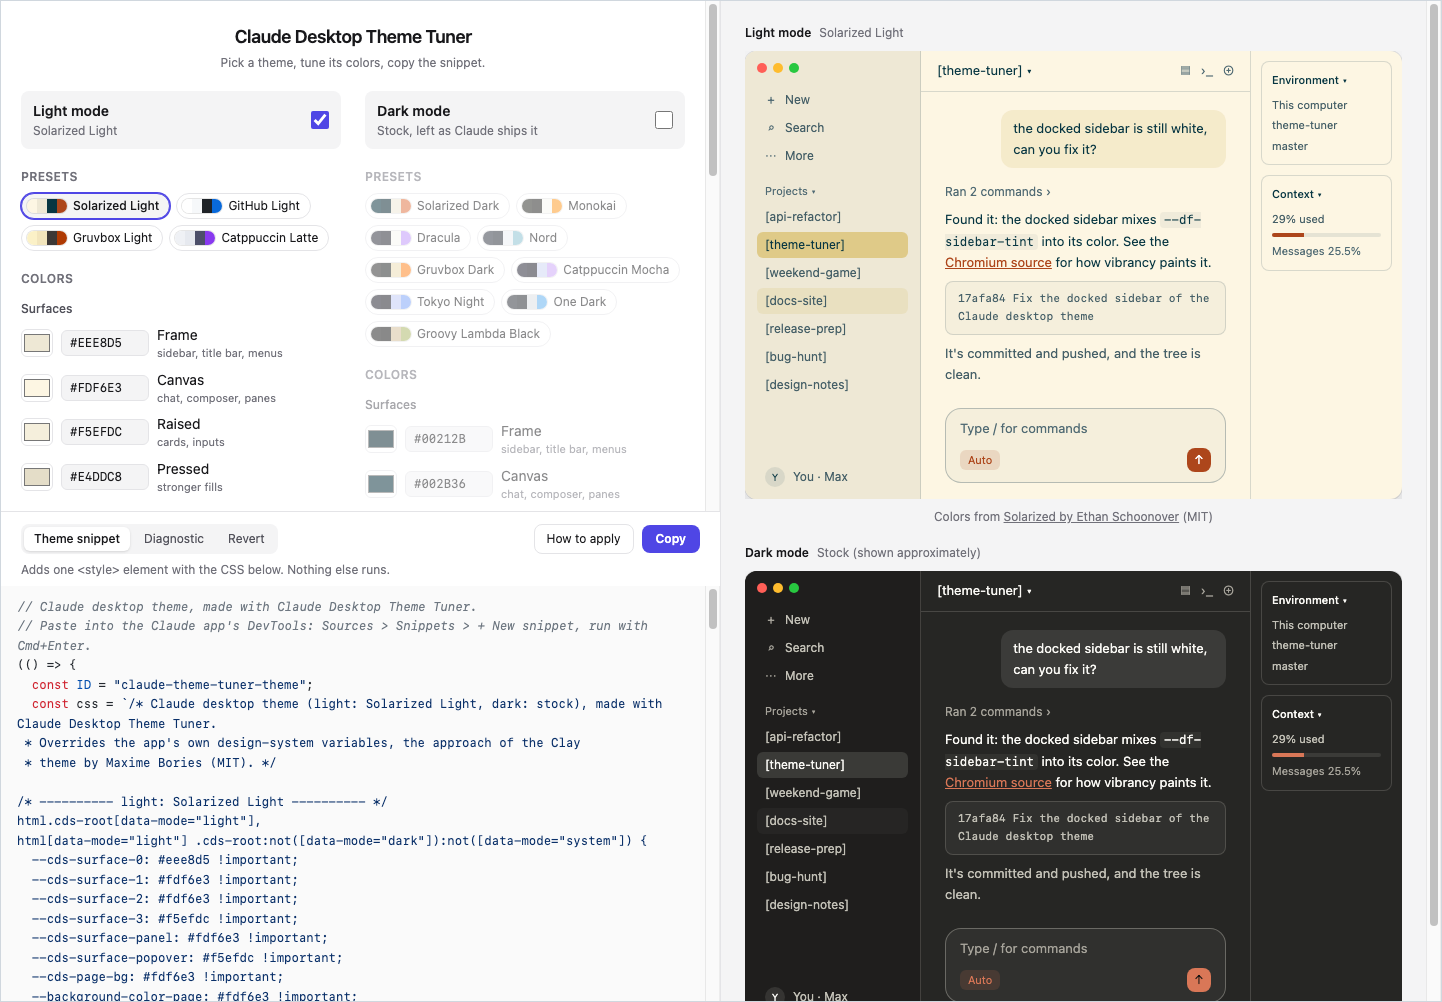
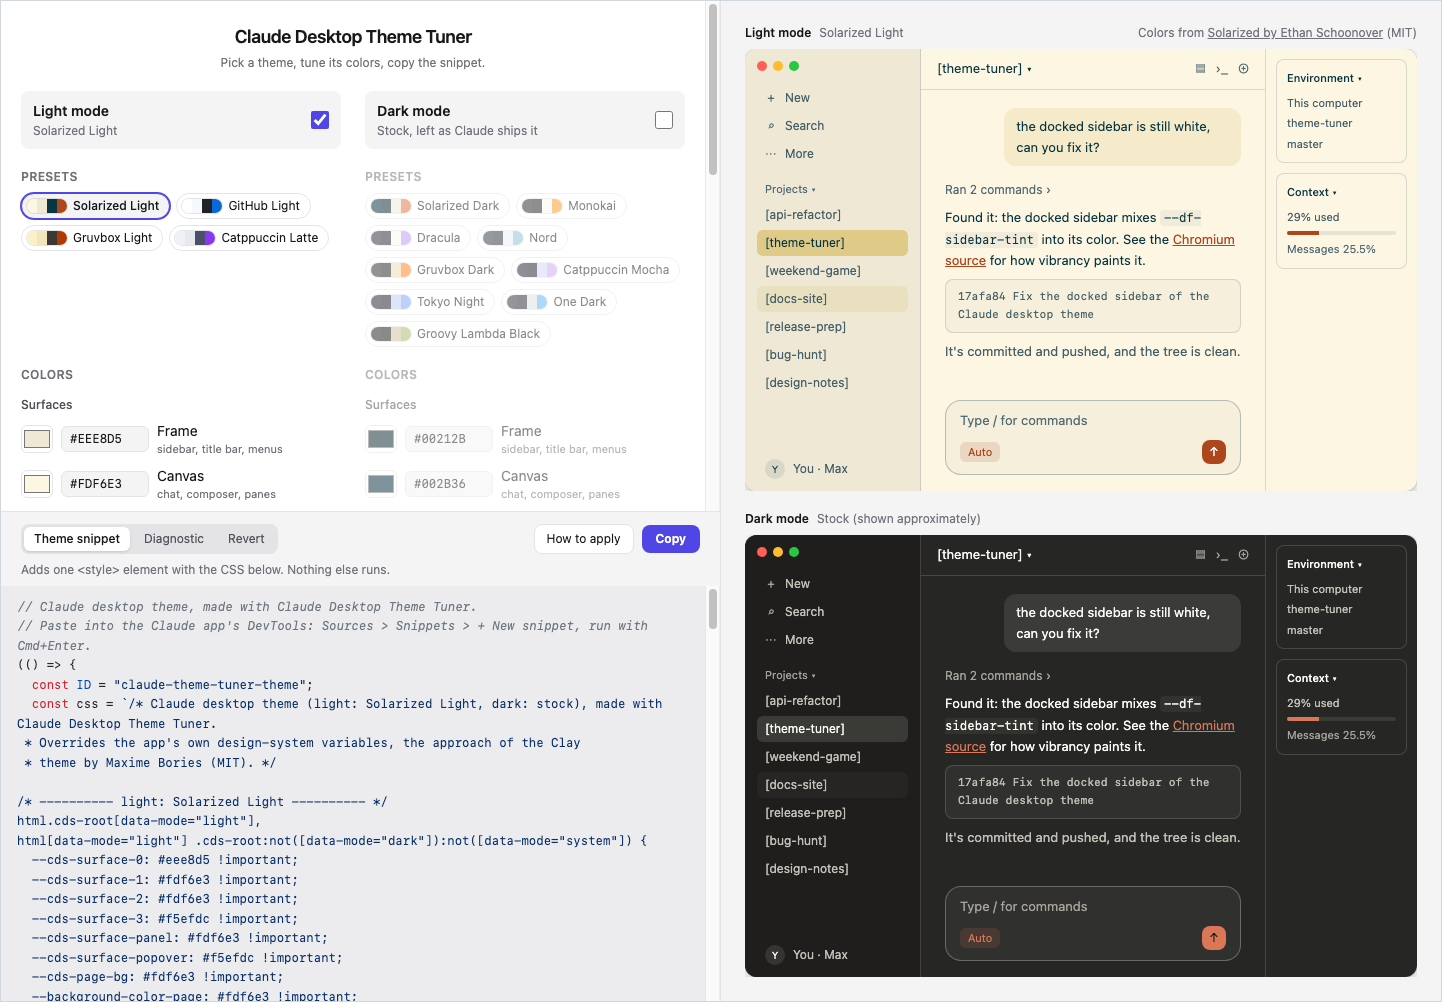
Split the preview pane into two equal halves
Light and dark each take half the pane, their mocks filling it, with a
caption the width of the mock (mode and theme left, credit right). The
footnote under them is gone. Phones keep a fixed mock height.

diff --git a/src/app.tsx b/src/app.tsx
@@ -513,39 +513,41 @@ const creditView = (theme: Theme) =>
     <span>{theme.name}</span>
   )
 
-// One mode's preview: its caption and the mock
+// One mode's preview: a caption the width of the mock (mode and theme on the
+// left, the colors' credit on the right) over the mock, which fills the rest
 const previewCardView = (model: Model, mode: Mode, label: string) => {
   const slot = model[mode]
   const palette = slot.enabled ? slot.theme.palette : STOCK[mode]
   return (
-    <div key={mode} className='flex w-full flex-col gap-[10px]'>
-      <div className='flex items-center gap-[8px] text-xs'>
-        <span className='font-semibold text-ui-ink'>{label}</span>
-        <span className='text-ui-ink-faint'>
-          {slot.enabled ? slot.theme.name : 'Stock (shown approximately)'}
-        </span>
+    <div key={mode} className='flex min-h-0 w-full flex-col items-center'>
+      <div className='flex h-full min-h-0 w-full max-w-[60rem] flex-col gap-[8px]'>
+        <div className='flex items-center justify-between gap-[12px] text-xs'>
+          <span className='flex min-w-0 items-center gap-[8px]'>
+            <span className='shrink-0 font-semibold text-ui-ink'>{label}</span>
+            <span className='truncate text-ui-ink-faint'>
+              {slot.enabled ? slot.theme.name : 'Stock (shown approximately)'}
+            </span>
+          </span>
+          {slot.enabled && slot.theme.credit ? (
+            <span className='shrink-0 text-ui-ink-faint'>
+              {creditView(slot.theme)}
+            </span>
+          ) : null}
+        </div>
+        {/* The mock keeps its desktop proportions; narrow screens scroll it sideways */}
+        <div className='flex min-h-0 w-full flex-1 overflow-x-auto'>
+          {claudeMockView(palette)}
+        </div>
       </div>
-      {/* The mock keeps its desktop proportions; narrow screens scroll it sideways */}
-      <div className='flex w-full justify-center-safe overflow-x-auto'>
-        {claudeMockView(palette)}
-      </div>
-      {slot.enabled && slot.theme.credit ? (
-        <p className='text-center text-xs text-ui-ink-faint'>
-          {creditView(slot.theme)}
-        </p>
-      ) : null}
     </div>
   )
 }
 
-// Both modes at once, light first
+// Both modes at once, light first: two equal halves of the pane on wide
+// screens, stacked at a fixed height on narrow ones
 const previewView = (model: Model) => (
-  <section className='flex flex-col items-center gap-[20px] p-[16px] lg:min-h-0 lg:overflow-auto lg:p-[24px]'>
+  <section className='flex flex-col gap-[20px] p-[16px] lg:grid lg:min-h-0 lg:grid-rows-2 lg:p-[24px]'>
     {MODES.map(({ mode, label }) => previewCardView(model, mode, label))}
-    <p className='text-center text-xs text-ui-ink-faint'>
-      Mocks of the Claude desktop app, painted with the variables the snippet
-      sets
-    </p>
   </section>
 )
 

diff --git a/src/preview/claude-mock.tsx b/src/preview/claude-mock.tsx
@@ -198,7 +198,7 @@ const sidePanelView = () => (
 
 export const claudeMockView = (palette: Palette) => (
   <div
-    className='flex h-[28rem] w-full max-w-[60rem] min-w-[38rem] shrink-0 overflow-hidden rounded-xl shadow-2xl ring-1 ring-black/10 bg-[var(--cds-surface-1)]'
+    className='flex h-[28rem] w-full min-w-[38rem] shrink-0 overflow-hidden lg:h-full rounded-xl shadow-2xl ring-1 ring-black/10 bg-[var(--cds-surface-1)]'
     style={tokenStyle(palette)}
   >
     {sidebarView()}
